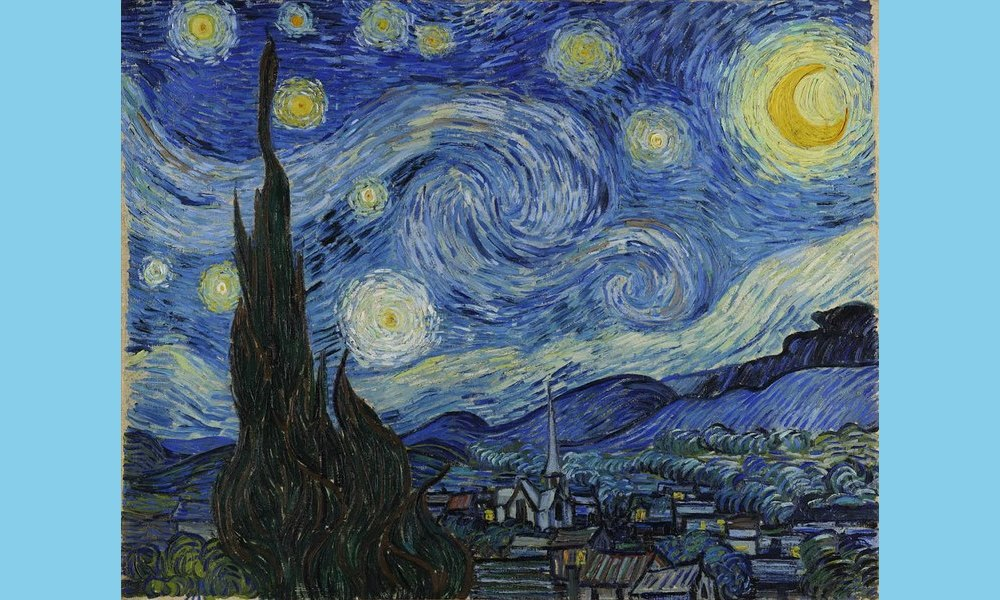
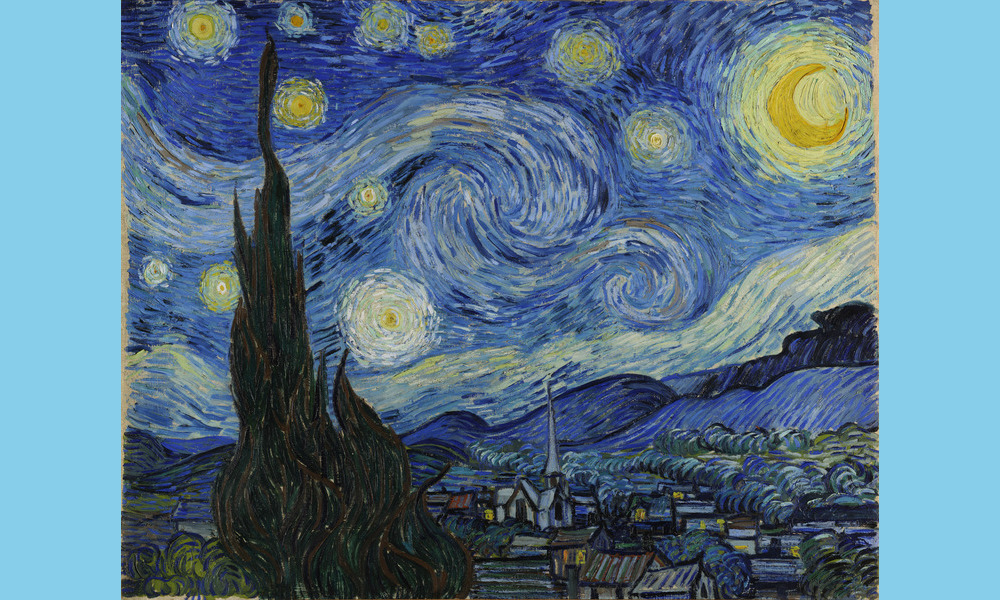
Improving the layout of the carousel some more.

Changed region(s): [[0.124, 0.0, 0.899, 1.0]]

diff --git a/index.html b/index.html
@@ -68,6 +68,7 @@
             <li data-target="#myCarousel" data-slide-to="0" class="active"></li>
             <li data-target="#myCarousel" data-slide-to="1"></li>
             <li data-target="#myCarousel" data-slide-to="2"></li>
+            <li data-target="#myCarousel" data-slide-to="3"></li>
         </ol>
 
         <!-- Wrapper for slides -->
@@ -75,15 +76,15 @@
             <div class="item active">
                 <img class="img-responsive center-block" src="img/A-Sunday-Afternoon-On-The-Island-Of-La-Grande-Jatte-wide.jpg" alt="Sunday-Afternoon">
             </div>
-
             <div class="item">
                 <img class="img-responsive center-block" src="img/Starry-Night-wide.jpg" alt="Starry-Night">
             </div>
-
             <div class="item">
-                <img class="img-responsive center-block" src="img/Sunflowers-wide.jpg" alt="Sunflowers">
+                <img class="img-responsive center-block" src="img/Water-Lillies-wide.jpg" alt="Water-Lillies">
             </div>
-
+            <div class="item">
+                <img class="img-responsive center-block" src="img/Mona-Lisa-wide.jpg" alt="Mona-Lisa">
+            </div>
         </div>
 
         <!-- Left and right controls -->

diff --git a/css/main.css b/css/main.css
@@ -9,6 +9,10 @@ body .carousel{
     background-color: skyblue;
 }
 
+.center-block {
+    object-fit: contain;
+}
+
 
 
 
